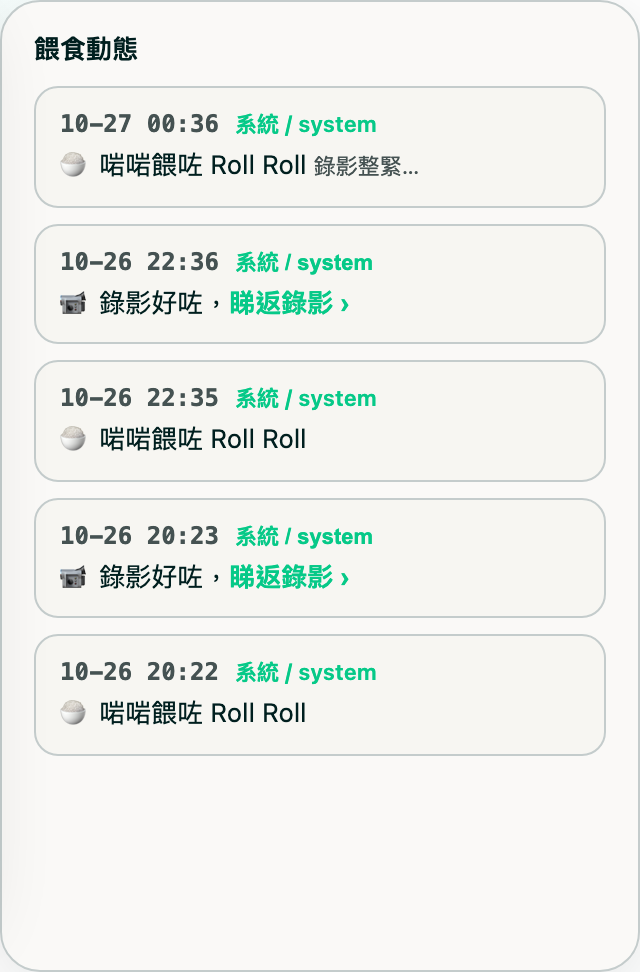
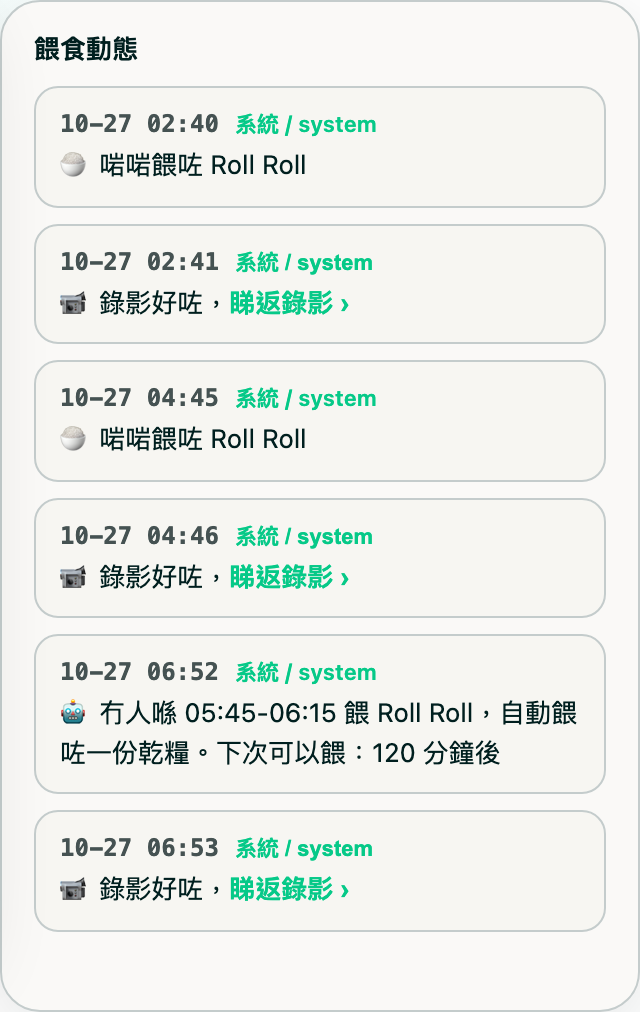
Refresh the feeding-activity and admin-panel screenshots
feeding-activity: now chat-ordered (oldest-top), no subtitle, shows the 🤖
auto-feed line. admin-panel: now includes the announcement banner and the
🤖 auto-feed windows section. README admin description updated to match.

diff --git a/README.md b/README.md
@@ -77,9 +77,11 @@ watch-back link once the 60-second clip finishes rendering.
 The hidden admin channel (tap the logo 5×, enter the password) unlocks a
 force-feed button that bypasses all the rules above, a simulate-visitor test
 feed for exercising the dispense pipeline without affecting the public
-cooldown or stats, and today's PetKit-side dispense history:
+cooldown or stats, an announcement banner, auto-feed safety-net windows
+(auto-feed a portion when a window closes if no one fed during it), and today's
+PetKit-side dispense history:
 
-<img src="docs/screenshots/admin-panel.png" width="260" alt="Admin panel: force feed, simulated test feed, and today's PetKit feed history">
+<img src="docs/screenshots/admin-panel.png" width="260" alt="Admin panel: force feed, simulated test feed, announcement banner, auto-feed windows, and today's PetKit feed history">
 
 ## Tech stack
 
